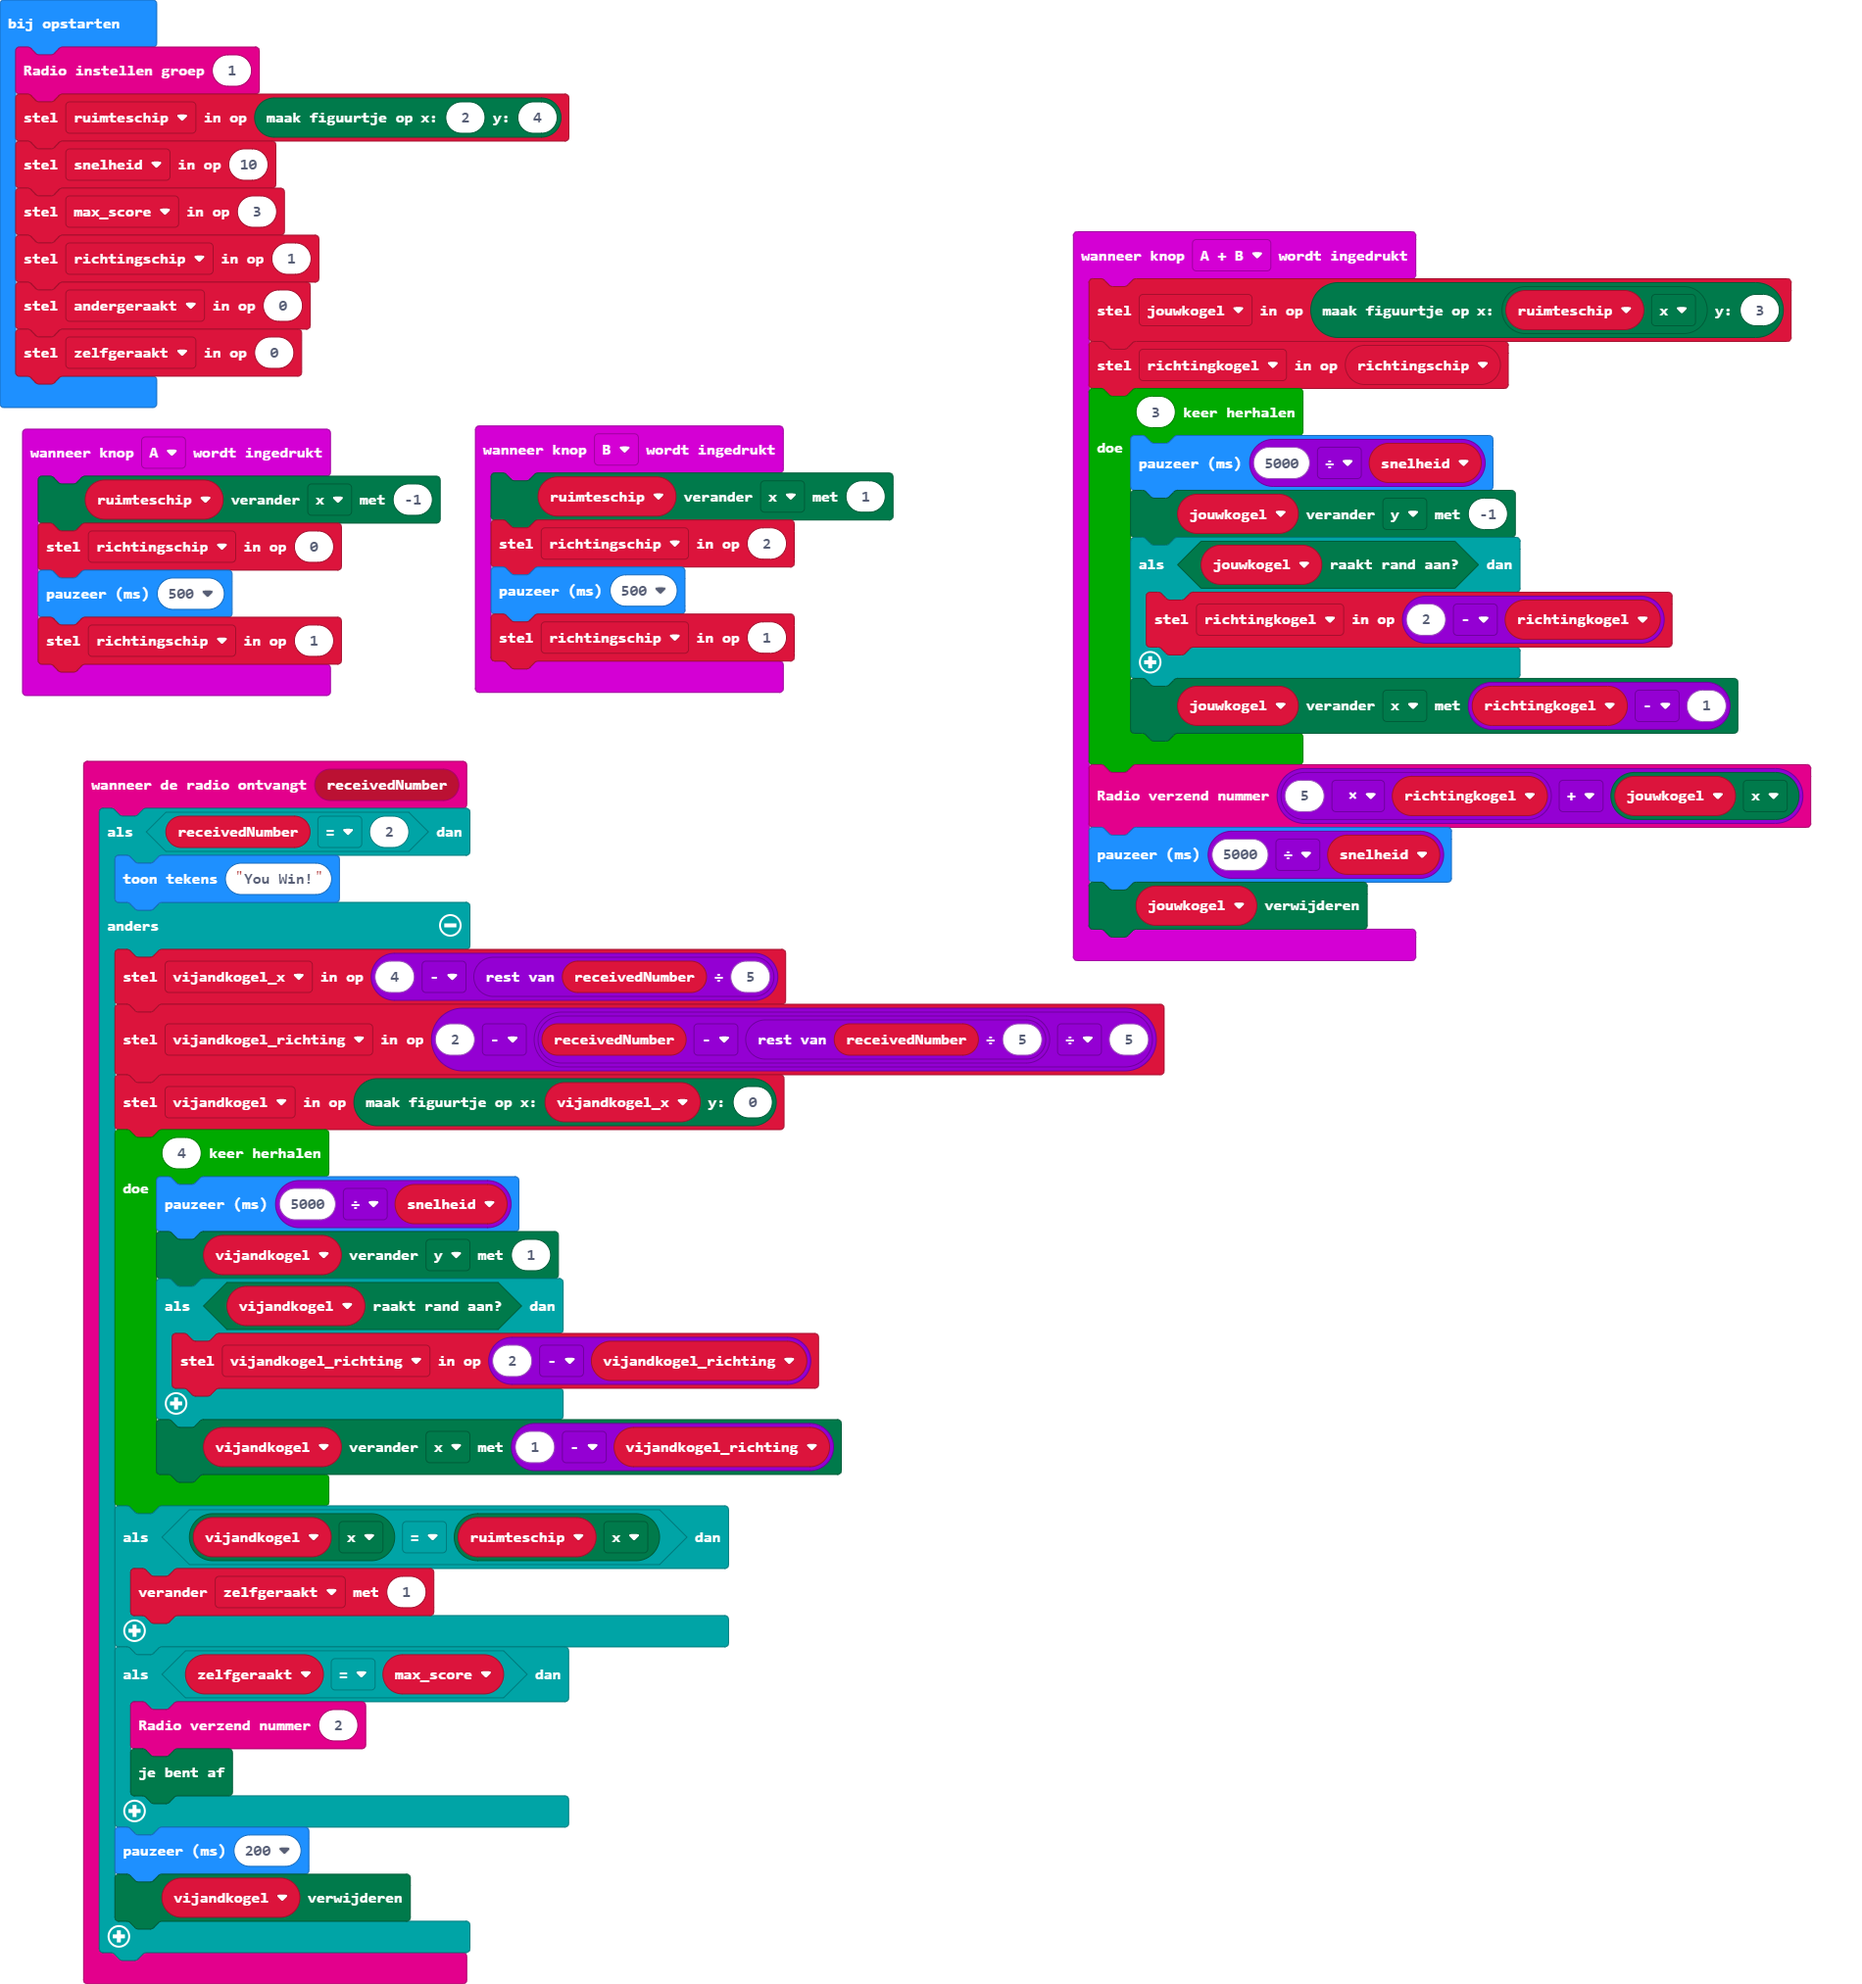
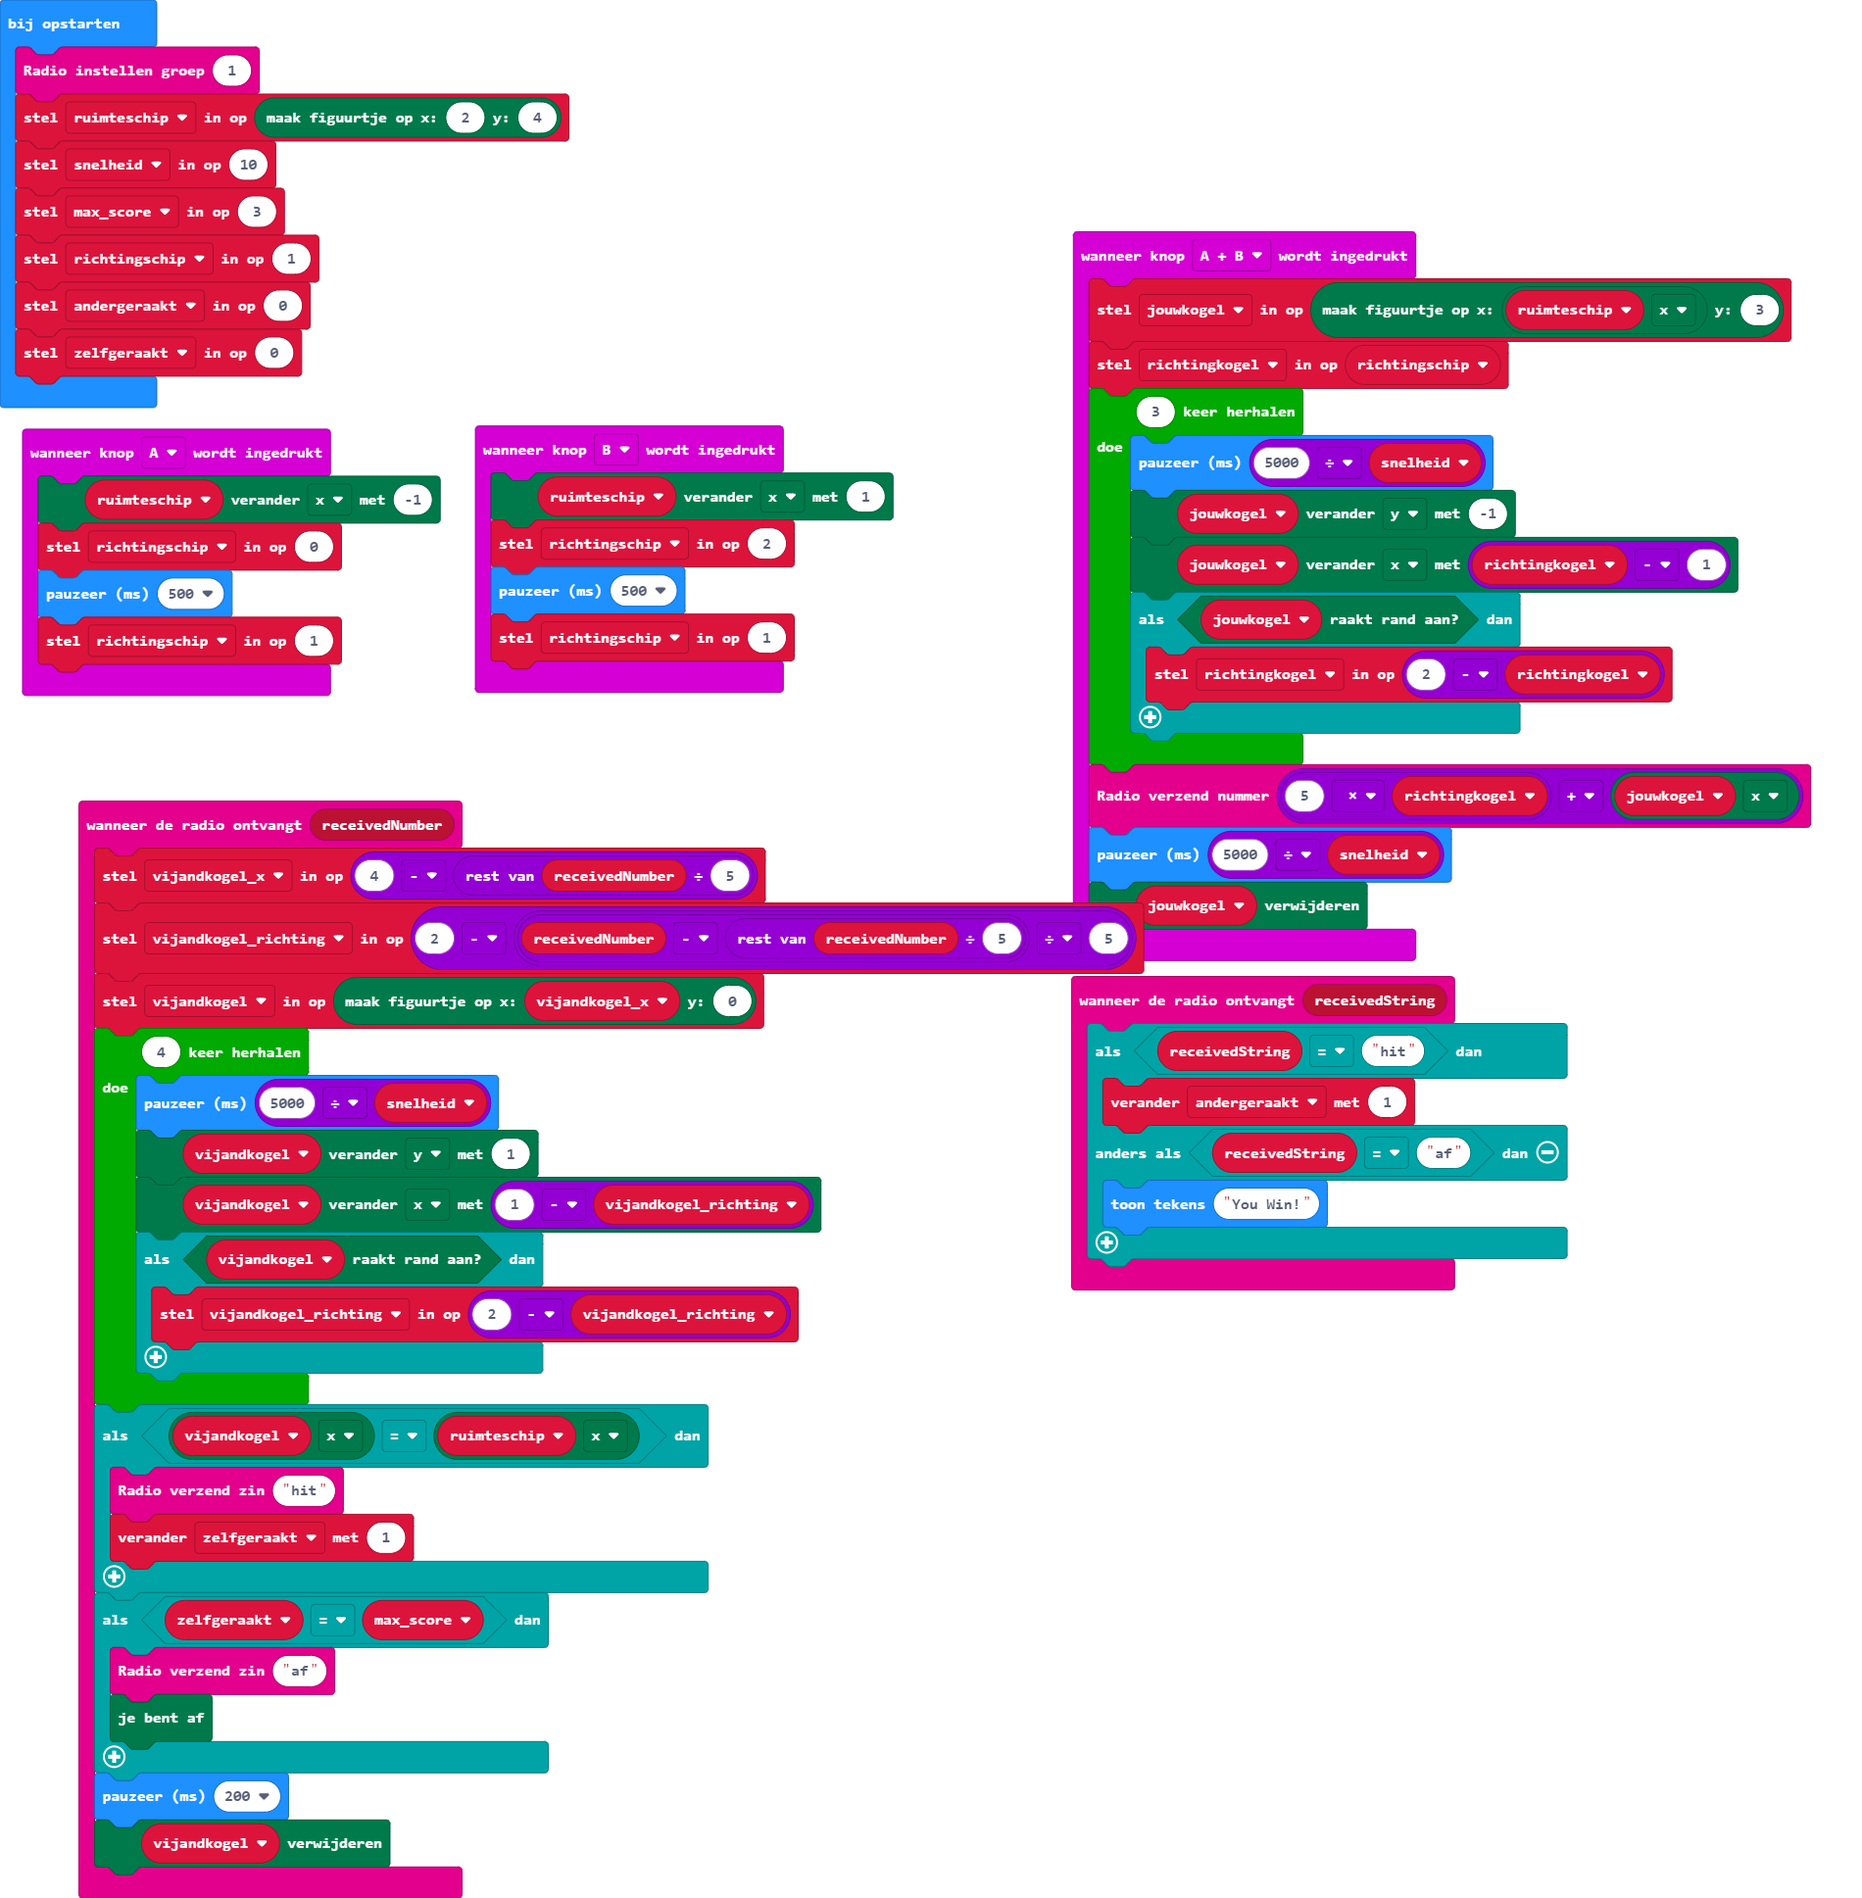
Update main.blocks, main.ts

diff --git a/main.ts b/main.ts
@@ -1,28 +1,25 @@
 radio.onReceivedNumber(function (receivedNumber) {
-    if (receivedNumber == 2) {
-        basic.showString("You Win!")
-    } else {
-        vijandkogel_x = 4 - receivedNumber % 5
-        vijandkogel_richting = 2 - (receivedNumber - receivedNumber % 5) / 5
-        vijandkogel = game.createSprite(vijandkogel_x, 0)
-        for (let index = 0; index < 4; index++) {
-            basic.pause(5000 / snelheid)
-            vijandkogel.change(LedSpriteProperty.Y, 1)
-            if (vijandkogel.isTouchingEdge()) {
-                vijandkogel_richting = 2 - vijandkogel_richting
-            }
-            vijandkogel.change(LedSpriteProperty.X, 1 - vijandkogel_richting)
+    vijandkogel_x = 4 - receivedNumber % 5
+    vijandkogel_richting = 2 - (receivedNumber - receivedNumber % 5) / 5
+    vijandkogel = game.createSprite(vijandkogel_x, 0)
+    for (let index = 0; index < 4; index++) {
+        basic.pause(5000 / snelheid)
+        vijandkogel.change(LedSpriteProperty.Y, 1)
+        vijandkogel.change(LedSpriteProperty.X, 1 - vijandkogel_richting)
+        if (vijandkogel.isTouchingEdge()) {
+            vijandkogel_richting = 2 - vijandkogel_richting
         }
-        if (vijandkogel.get(LedSpriteProperty.X) == ruimteschip.get(LedSpriteProperty.X)) {
-            zelfgeraakt += 1
-        }
-        if (zelfgeraakt == max_score) {
-            radio.sendNumber(2)
-            game.gameOver()
-        }
-        basic.pause(200)
-        vijandkogel.delete()
     }
+    if (vijandkogel.get(LedSpriteProperty.X) == ruimteschip.get(LedSpriteProperty.X)) {
+        radio.sendString("hit")
+        zelfgeraakt += 1
+    }
+    if (zelfgeraakt == max_score) {
+        radio.sendString("af")
+        game.gameOver()
+    }
+    basic.pause(200)
+    vijandkogel.delete()
 })
 input.onButtonPressed(Button.A, function () {
     ruimteschip.change(LedSpriteProperty.X, -1)
@@ -36,14 +33,21 @@ input.onButtonPressed(Button.AB, function () {
     for (let index = 0; index < 3; index++) {
         basic.pause(5000 / snelheid)
         jouwkogel.change(LedSpriteProperty.Y, -1)
+        jouwkogel.change(LedSpriteProperty.X, richtingkogel - 1)
         if (jouwkogel.isTouchingEdge()) {
             richtingkogel = 2 - richtingkogel
         }
-        jouwkogel.change(LedSpriteProperty.X, richtingkogel - 1)
     }
     radio.sendNumber(5 * richtingkogel + jouwkogel.get(LedSpriteProperty.X))
     basic.pause(5000 / snelheid)
     jouwkogel.delete()
+})
+radio.onReceivedString(function (receivedString) {
+    if (receivedString == "hit") {
+        andergeraakt += 1
+    } else if (receivedString == "af") {
+        basic.showString("You Win!")
+    }
 })
 input.onButtonPressed(Button.B, function () {
     ruimteschip.change(LedSpriteProperty.X, 1)
